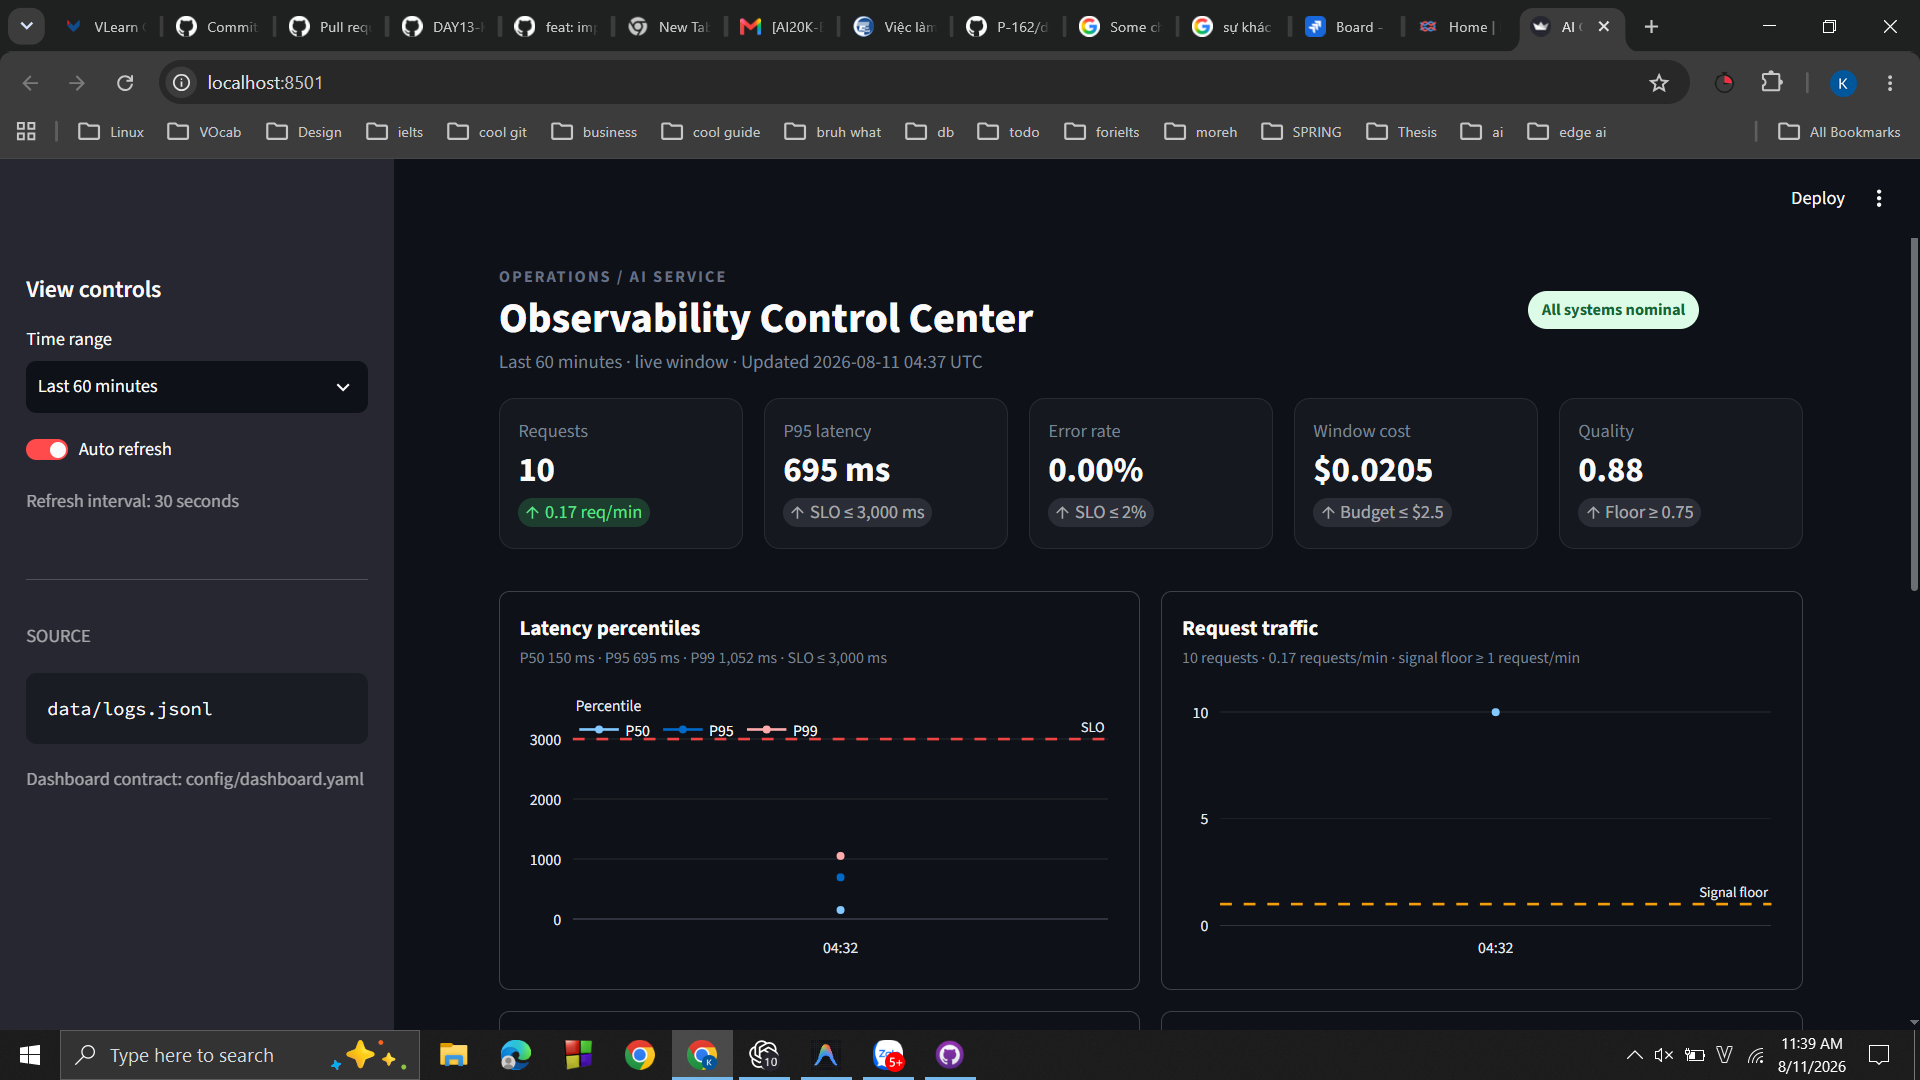
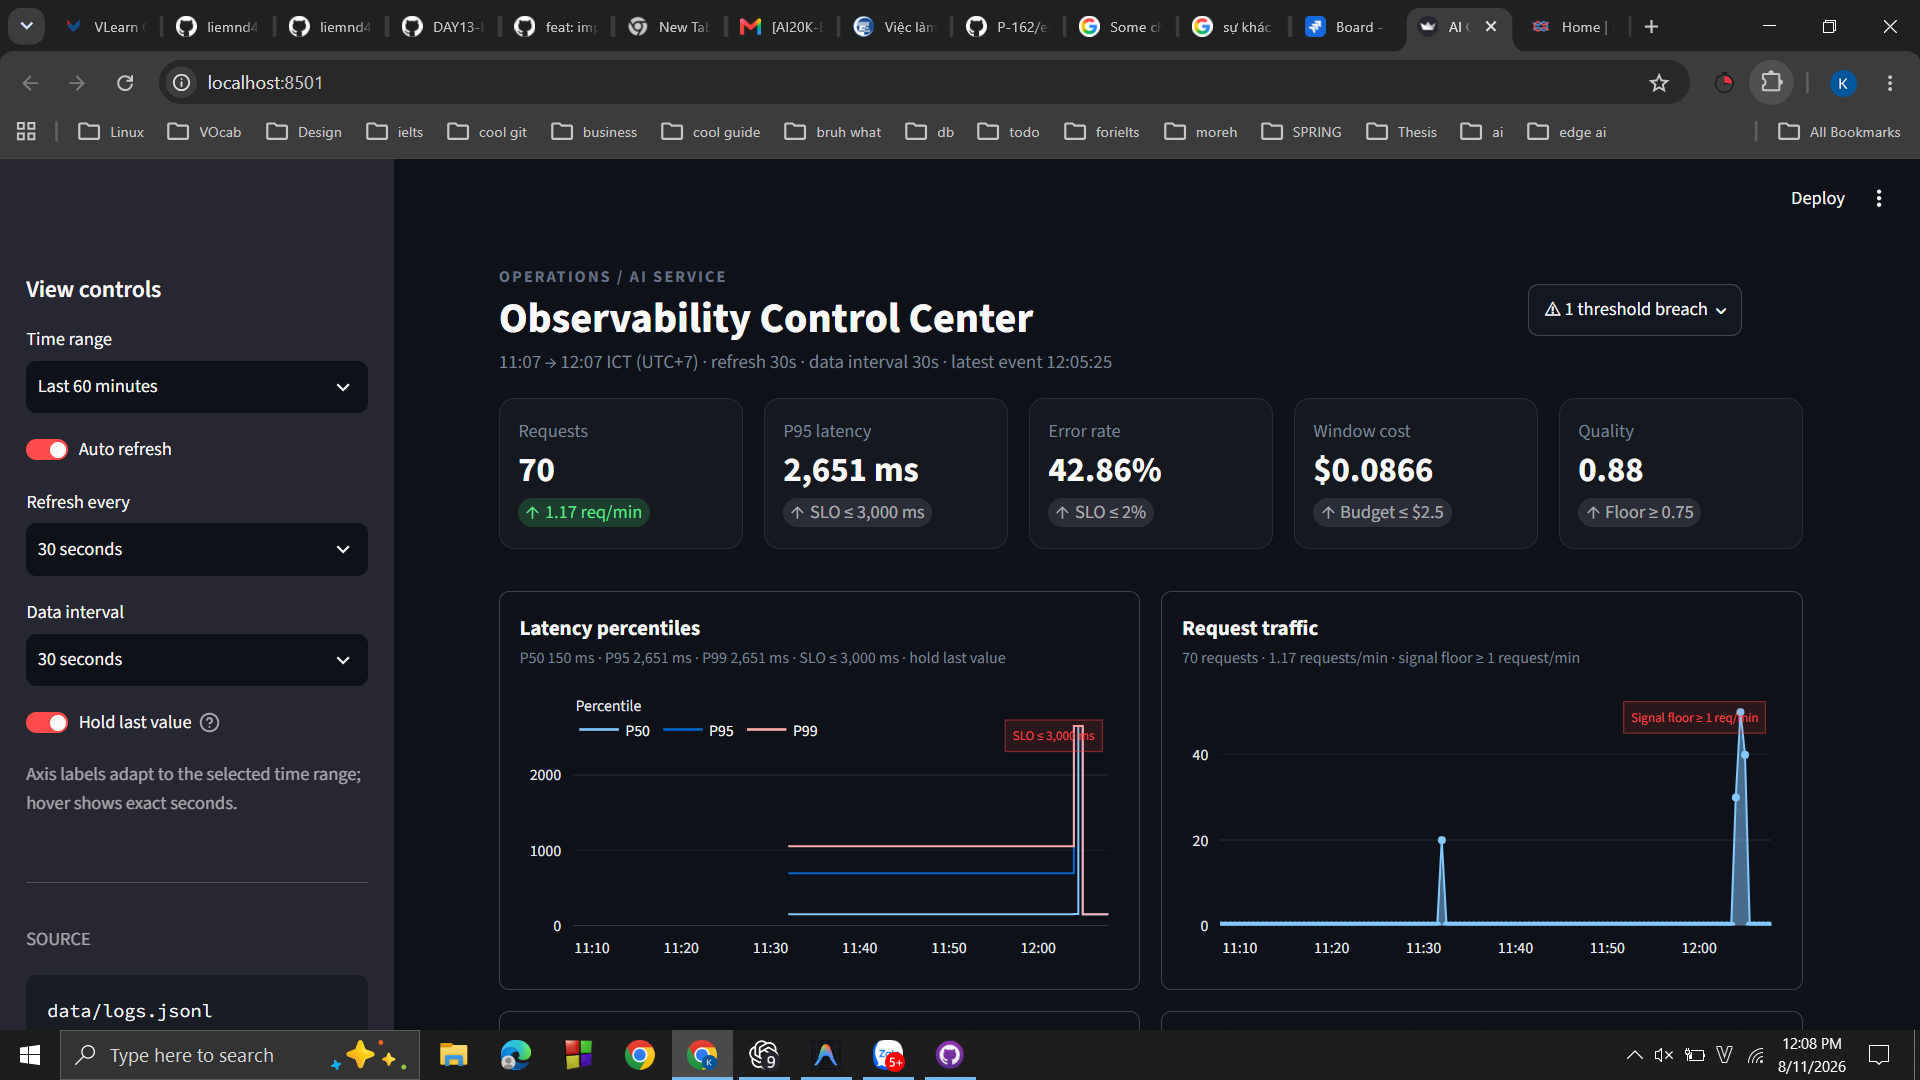
update dashboard

diff --git a/scripts/dashboard.py b/scripts/dashboard.py
@@ -5,6 +5,7 @@ from pathlib import Path
 
 import pandas as pd
 import plotly.express as px
+import plotly.graph_objects as go
 import streamlit as st
 from streamlit_autorefresh import st_autorefresh
 import yaml
@@ -13,6 +14,7 @@ import yaml
 ROOT = Path(__file__).resolve().parents[1]
 LOG_PATH = ROOT / "data" / "logs.jsonl"
 CONFIG_PATH = ROOT / "config" / "dashboard.yaml"
+DISPLAY_TIMEZONE = "Asia/Ho_Chi_Minh"
 
 st.set_page_config(
     page_title="AI Observability Control Center",
@@ -87,31 +89,50 @@ def compact_chart(fig, *, percent: bool = False) -> None:
         gridcolor="rgba(128,128,128,.12)",
         tickformat="%H:%M",
         hoverformat="%Y-%m-%d %H:%M:%S",
-        nticks=6,
+        range=[window_start, now],
+        tick0=window_start.ceil(f"{axis_tick_seconds}s"),
+        dtick=axis_tick_seconds * 1000,
     )
-
-    # Plotly zooms into microseconds when a time series contains one bucket.
-    # Give that point a readable one-minute range and render a single HH:MM tick.
-    x_values = [
-        value
-        for trace in fig.data
-        for value in (list(trace.x) if getattr(trace, "x", None) is not None else [])
-    ]
-    timestamps = pd.to_datetime(x_values, utc=True, errors="coerce")
-    timestamps = timestamps[~pd.isna(timestamps)]
-    unique_timestamps = timestamps.unique()
-    if len(unique_timestamps) == 1:
-        point = pd.Timestamp(unique_timestamps[0])
-        fig.update_xaxes(
-            range=[point - pd.Timedelta(seconds=30), point + pd.Timedelta(seconds=30)],
-            tickmode="array",
-            tickvals=[point],
-            ticktext=[point.strftime("%H:%M")],
-        )
-    fig.update_yaxes(title=None, gridcolor="rgba(128,128,128,.12)")
+    fig.update_yaxes(
+        title=None,
+        gridcolor="rgba(128,128,128,.12)",
+        rangemode="tozero",
+    )
     if percent:
         fig.update_yaxes(ticksuffix="%")
     st.plotly_chart(fig, use_container_width=True, config={"displayModeBar": False})
+
+
+def add_threshold_badge(fig, text: str) -> None:
+    """Show a threshold without letting it expand the numeric Y-axis range."""
+    fig.add_annotation(
+        text=text,
+        xref="paper",
+        yref="paper",
+        x=.99,
+        y=.98,
+        xanchor="right",
+        yanchor="top",
+        showarrow=False,
+        bgcolor="rgba(239,68,68,.12)",
+        bordercolor="rgba(239,68,68,.45)",
+        borderpad=5,
+        font=dict(color="#ef4444", size=10),
+    )
+
+
+def empty_time_chart(message: str, *, percent: bool = False) -> None:
+    fig = go.Figure()
+    fig.add_annotation(
+        text=message,
+        xref="paper",
+        yref="paper",
+        x=.5,
+        y=.5,
+        showarrow=False,
+        font=dict(color="#7b8495", size=13),
+    )
+    compact_chart(fig, percent=percent)
 
 
 def heading(title: str, subtitle: str) -> None:
@@ -135,7 +156,27 @@ with st.sidebar:
         format_func=lambda value: f"Last {value} minutes",
     )
     auto_refresh = st.toggle("Auto refresh", value=True)
-    st.caption(f"Refresh interval: {config['refresh_seconds']} seconds")
+    refresh_options = [15, 30, 60]
+    refresh_seconds = st.selectbox(
+        "Refresh every",
+        refresh_options,
+        index=refresh_options.index(config["refresh_seconds"]),
+        format_func=lambda value: f"{value} seconds",
+        disabled=not auto_refresh,
+    )
+    bucket_options = [30, 60, 300]
+    bucket_seconds = st.selectbox(
+        "Data interval",
+        bucket_options,
+        index=0,
+        format_func=lambda value: f"{value} seconds" if value < 60 else f"{value // 60} minute(s)",
+    )
+    hold_last_value = st.toggle(
+        "Hold last value",
+        value=True,
+        help="Grafana-style last-not-null: extend the latest observation until a new value arrives.",
+    )
+    st.caption("Axis labels adapt to the selected time range; hover shows exact seconds.")
     st.divider()
     st.caption("SOURCE")
     st.code("data/logs.jsonl", language=None)
@@ -143,22 +184,28 @@ with st.sidebar:
 
 if auto_refresh:
     st_autorefresh(
-        interval=config["refresh_seconds"] * 1000,
+        interval=refresh_seconds * 1000,
         limit=None,
         key="dashboard-data-refresh",
     )
 
-now = pd.Timestamp.now(tz="UTC")
-cutoff = now - pd.Timedelta(minutes=window_minutes)
-window_df = df[df["ts"] >= cutoff].copy() if not df.empty and "ts" in df else pd.DataFrame()
+if not df.empty and "ts" in df:
+    df["ts"] = df["ts"].dt.tz_convert(DISPLAY_TIMEZONE)
 
-if window_df.empty and not df.empty:
-    latest = df["ts"].max()
-    cutoff = latest - pd.Timedelta(minutes=window_minutes)
-    window_df = df[df["ts"] >= cutoff].copy()
-    data_mode = "latest available data"
-else:
-    data_mode = "live window"
+now = pd.Timestamp.now(tz=DISPLAY_TIMEZONE)
+window_start = now - pd.Timedelta(minutes=window_minutes)
+window_df = df[df["ts"].between(window_start, now)].copy() if not df.empty and "ts" in df else pd.DataFrame()
+bucket_frequency = f"{bucket_seconds}s"
+timeline = pd.date_range(
+    start=window_start.floor(bucket_frequency),
+    end=now.ceil(bucket_frequency),
+    freq=bucket_frequency,
+)
+desired_tick_seconds = max(bucket_seconds, window_minutes * 60 / 6)
+axis_tick_seconds = next(
+    step for step in [30, 60, 120, 300, 600, 900, 1800, 3600]
+    if step >= desired_tick_seconds
+)
 
 responses = window_df[window_df.get("event", pd.Series(dtype=str)) == "response_sent"].copy()
 requests = window_df[window_df.get("event", pd.Series(dtype=str)) == "request_received"].copy()
@@ -166,7 +213,7 @@ failures = window_df[window_df.get("event", pd.Series(dtype=str)) == "request_fa
 
 for frame in (responses, requests, failures):
     if not frame.empty:
-        frame["minute"] = frame["ts"].dt.floor("min")
+        frame["bucket"] = frame["ts"].dt.floor(bucket_frequency)
 
 latency_cfg = panel_config(config, "latency")
 traffic_cfg = panel_config(config, "traffic")
@@ -190,32 +237,65 @@ quality = float(responses.get("quality_score", pd.Series(dtype=float)).mean()) i
 
 breaches = {
     "Latency": bool(request_count and p95 > latency_cfg["threshold"]["value"]),
+    "Traffic": request_rate < traffic_cfg["threshold"]["value"],
     "Errors": bool(request_count and error_rate > errors_cfg["threshold"]["value"]),
     "Cost": total_cost > cost_cfg["threshold"]["value"],
     "Tokens": max(tokens_in, tokens_out) > tokens_cfg["threshold"]["value"],
     "Quality": bool(request_count and quality < quality_cfg["threshold"]["value"]),
 }
 active_breaches = [name for name, breached in breaches.items() if breached]
+breach_details = []
+if breaches["Latency"]:
+    breach_details.append(("Latency", "HighLatencyP95", f"P95 {p95:,.0f} ms > {latency_cfg['threshold']['value']:,} ms"))
+if breaches["Traffic"]:
+    breach_details.append(("Traffic", "TrafficSignalLow", f"{request_rate:.2f} req/min < {traffic_cfg['threshold']['value']} req/min"))
+if breaches["Errors"]:
+    breach_details.append(("Errors", "HighErrorRate", f"{error_rate:.2f}% > {errors_cfg['threshold']['value']}%"))
+if breaches["Cost"]:
+    breach_details.append(("Cost", "CostGuardrail", f"${total_cost:.4f} > ${cost_cfg['threshold']['value']}"))
+if breaches["Tokens"]:
+    breach_details.append(("Tokens", "TokenGuardrail", f"{max(tokens_in, tokens_out):,} > {tokens_cfg['threshold']['value']:,} tokens"))
+if breaches["Quality"]:
+    breach_details.append(("Quality", "LowQualityScore", f"{quality:.2f} < {quality_cfg['threshold']['value']}"))
 status_class = "status-bad" if active_breaches else "status-ok"
-status_text = f"{len(active_breaches)} threshold breach" if active_breaches else "All systems nominal"
-last_event = window_df["ts"].max().strftime("%Y-%m-%d %H:%M UTC") if not window_df.empty else "No data"
+status_text = (
+    f"{len(active_breaches)} threshold breach{'es' if len(active_breaches) != 1 else ''}"
+    if active_breaches
+    else "All systems nominal"
+)
+last_event = df["ts"].max().strftime("%H:%M:%S") if not df.empty and "ts" in df else "No data"
 
 header_left, header_right = st.columns([5, 1.4], vertical_alignment="center")
 with header_left:
     st.markdown('<div class="dashboard-kicker">Operations / AI service</div>', unsafe_allow_html=True)
     st.markdown('<div class="dashboard-title">Observability Control Center</div>', unsafe_allow_html=True)
     st.markdown(
-        f'<div class="dashboard-meta">Last {window_minutes} minutes · {data_mode} · Updated {last_event}</div>',
+        f'<div class="dashboard-meta">{window_start:%H:%M} → {now:%H:%M} ICT (UTC+7) · refresh {refresh_seconds}s · data interval {bucket_seconds}s · latest event {last_event}</div>',
         unsafe_allow_html=True,
     )
 with header_right:
-    st.markdown(f'<span class="{status_class}">{status_text}</span>', unsafe_allow_html=True)
+    status_icon = "⚠" if active_breaches else "✓"
+    st.markdown(f'<span class="{status_class}">{status_icon} {status_text}</span>', unsafe_allow_html=True)
+
+with st.expander(f"{status_icon} {status_text} — click to inspect", expanded=False):
+    if breach_details:
+        st.markdown("#### Active threshold breaches")
+        detail_columns = st.columns(min(len(breach_details), 3))
+        for index, (metric, alert_name, condition) in enumerate(breach_details):
+            with detail_columns[index % len(detail_columns)]:
+                st.markdown(f"**{metric}**")
+                st.code(alert_name, language=None)
+                st.caption(condition)
+        st.divider()
+        st.caption("Runbook: docs/alerts.md · Threshold source: config/dashboard.yaml")
+    else:
+        st.success("All six panel thresholds are within their configured limits.")
+        st.caption("Threshold source: config/dashboard.yaml")
 
 if rejected_lines:
     st.warning(f"Skipped {rejected_lines} malformed log line(s).", icon="⚠")
 if window_df.empty:
-    st.warning("No events are available for the selected time range. Run the load test and refresh.")
-    st.stop()
+    st.warning("No events in the live time window. The panels will keep moving and populate when new requests arrive.")
 
 st.write("")
 k1, k2, k3, k4, k5 = st.columns(5)
@@ -229,81 +309,96 @@ st.write("")
 row1_left, row1_right = st.columns(2)
 with row1_left:
     with st.container(border=True):
-        heading("Latency percentiles", f"P50 {p50:,.0f} ms · P95 {p95:,.0f} ms · P99 {p99:,.0f} ms · SLO ≤ 3,000 ms")
+        heading("Latency percentiles", f"P50 {p50:,.0f} ms · P95 {p95:,.0f} ms · P99 {p99:,.0f} ms · SLO ≤ 3,000 ms · {'hold last value' if hold_last_value else 'show gaps'}")
         if not responses.empty and "latency_ms" in responses:
-            latency = responses.groupby("minute")["latency_ms"].quantile([.5, .95, .99]).unstack().reset_index()
-            latency.columns = ["minute", "P50", "P95", "P99"]
-            latency = latency.melt("minute", var_name="Percentile", value_name="Latency (ms)")
-            fig = px.line(latency, x="minute", y="Latency (ms)", color="Percentile", markers=True)
-            fig.add_hline(y=latency_cfg["threshold"]["value"], line_dash="dash", line_color="#ef4444", annotation_text="SLO")
+            latency = responses.groupby("bucket")["latency_ms"].quantile([.5, .95, .99]).unstack()
+            latency.columns = ["P50", "P95", "P99"]
+            latency = latency.reindex(timeline)
+            if hold_last_value:
+                latency = latency.ffill()
+            latency = latency.rename_axis("bucket").reset_index()
+            latency = latency.melt("bucket", var_name="Percentile", value_name="Latency (ms)")
+            fig = px.line(latency, x="bucket", y="Latency (ms)", color="Percentile", line_shape="hv")
+            add_threshold_badge(fig, f"SLO ≤ {latency_cfg['threshold']['value']:,} ms")
             compact_chart(fig)
         else:
-            st.info("No response latency data")
+            empty_time_chart("No response latency data in this window")
 
 with row1_right:
     with st.container(border=True):
         heading("Request traffic", f"{request_count} requests · {request_rate:.2f} requests/min · signal floor ≥ 1 request/min")
-        traffic = requests.groupby("minute").size().reset_index(name="Requests") if not requests.empty else pd.DataFrame()
+        traffic = requests.groupby("bucket").size().reindex(timeline, fill_value=0).rename_axis("bucket").reset_index(name="Requests/min") if not requests.empty else pd.DataFrame()
         if not traffic.empty:
-            fig = px.area(traffic, x="minute", y="Requests", markers=True)
-            fig.add_hline(y=traffic_cfg["threshold"]["value"], line_dash="dash", line_color="#f59e0b", annotation_text="Signal floor")
+            traffic["Requests/min"] = traffic["Requests/min"] * 60 / bucket_seconds
+            fig = px.area(traffic, x="bucket", y="Requests/min", markers=True)
+            add_threshold_badge(fig, f"Signal floor ≥ {traffic_cfg['threshold']['value']} req/min")
             compact_chart(fig)
         else:
-            st.info("No request data")
+            empty_time_chart("No request data in this window")
 
 row2_left, row2_right = st.columns(2)
 with row2_left:
     with st.container(border=True):
-        heading("Errors", f"{error_rate:.2f}% error rate · {error_count} failures · SLO ≤ 2%")
+        heading("Errors", f"{error_rate:.2f}% error rate · {error_count} failures · SLO ≤ 2% · {'hold last value' if hold_last_value else 'show gaps'}")
         if not requests.empty:
-            req_by_minute = requests.groupby("minute").size().rename("requests")
-            errors = req_by_minute.to_frame()
+            req_by_bucket = requests.groupby("bucket").size().reindex(timeline, fill_value=0).rename("requests")
+            errors = req_by_bucket.to_frame()
             if failures.empty:
                 errors["errors"] = 0
             else:
                 errors["errors"] = (
-                    failures.groupby("minute")
+                    failures.groupby("bucket")
                     .size()
                     .reindex(errors.index, fill_value=0)
                 )
-            errors["Error rate (%)"] = errors["errors"] / errors["requests"] * 100
-            errors = errors.reset_index()
-            fig = px.line(errors, x="minute", y="Error rate (%)", markers=True)
-            fig.add_hline(y=errors_cfg["threshold"]["value"], line_dash="dash", line_color="#ef4444", annotation_text="SLO")
+            errors["Error rate (%)"] = (errors["errors"] / errors["requests"] * 100).where(errors["requests"] > 0)
+            if hold_last_value:
+                errors["Error rate (%)"] = errors["Error rate (%)"].ffill()
+            errors = errors.rename_axis("bucket").reset_index()
+            fig = px.line(errors, x="bucket", y="Error rate (%)", line_shape="hv")
+            fig.update_traces(line_width=3)
+            add_threshold_badge(fig, f"SLO ≤ {errors_cfg['threshold']['value']}%")
             compact_chart(fig, percent=True)
         else:
-            st.info("No request data")
+            empty_time_chart("No request data in this window", percent=True)
 
 with row2_right:
     with st.container(border=True):
         heading("Cost", f"${total_cost:.4f} in selected window · budget ≤ ${cost_cfg['threshold']['value']}")
         if not responses.empty and "cost_usd" in responses:
-            cost = responses.groupby("minute")["cost_usd"].sum().cumsum().reset_index(name="Cumulative cost (USD)")
-            fig = px.line(cost, x="minute", y="Cumulative cost (USD)", markers=True)
-            fig.add_hline(y=cost_cfg["threshold"]["value"], line_dash="dash", line_color="#ef4444", annotation_text="Budget")
+            cost = responses.groupby("bucket")["cost_usd"].sum().reindex(timeline, fill_value=0).cumsum().rename_axis("bucket").reset_index(name="Cumulative cost (USD)")
+            fig = px.line(cost, x="bucket", y="Cumulative cost (USD)", markers=True)
+            add_threshold_badge(fig, f"Budget ≤ ${cost_cfg['threshold']['value']}")
             compact_chart(fig)
         else:
-            st.info("No cost data")
+            empty_time_chart("No cost data in this window")
 
 row3_left, row3_right = st.columns(2)
 with row3_left:
     with st.container(border=True):
         heading("Token usage", f"Input {tokens_in:,} · Output {tokens_out:,} · per-field limit ≤ {tokens_cfg['threshold']['value']:,}")
-        token_frame = pd.DataFrame({"Token type": ["Input", "Output"], "Tokens": [tokens_in, tokens_out]})
-        fig = px.bar(token_frame, x="Token type", y="Tokens", color="Token type", text_auto=",")
-        fig.add_hline(y=tokens_cfg["threshold"]["value"], line_dash="dash", line_color="#ef4444", annotation_text="Per-field limit")
-        compact_chart(fig)
+        if not responses.empty and {"tokens_in", "tokens_out"}.issubset(responses.columns):
+            token_frame = responses.groupby("bucket")[["tokens_in", "tokens_out"]].sum().reindex(timeline, fill_value=0).rename_axis("bucket").reset_index()
+            token_frame = token_frame.melt("bucket", var_name="Token type", value_name="Tokens")
+            fig = px.area(token_frame, x="bucket", y="Tokens", color="Token type")
+            add_threshold_badge(fig, f"Limit ≤ {tokens_cfg['threshold']['value']:,}")
+            compact_chart(fig)
+        else:
+            empty_time_chart("No token data in this window")
 
 with row3_right:
     with st.container(border=True):
-        heading("Quality proxy", f"Mean score {quality:.2f} · quality floor ≥ {quality_cfg['threshold']['value']}")
+        heading("Quality proxy", f"Mean score {quality:.2f} · quality floor ≥ {quality_cfg['threshold']['value']} · {'hold last value' if hold_last_value else 'show gaps'}")
         if not responses.empty and "quality_score" in responses:
-            quality_trend = responses.groupby("minute")["quality_score"].mean().reset_index(name="Quality score")
-            fig = px.line(quality_trend, x="minute", y="Quality score", markers=True)
-            fig.add_hline(y=quality_cfg["threshold"]["value"], line_dash="dash", line_color="#ef4444", annotation_text="Quality floor")
+            quality_trend = responses.groupby("bucket")["quality_score"].mean().reindex(timeline)
+            if hold_last_value:
+                quality_trend = quality_trend.ffill()
+            quality_trend = quality_trend.rename_axis("bucket").reset_index(name="Quality score")
+            fig = px.line(quality_trend, x="bucket", y="Quality score", line_shape="hv")
+            add_threshold_badge(fig, f"Quality floor ≥ {quality_cfg['threshold']['value']}")
             fig.update_yaxes(range=[0, 1])
             compact_chart(fig)
         else:
-            st.info("No quality data")
+            empty_time_chart("No quality data in this window")
 
 st.caption("Six-panel operational view · Source: data/logs.jsonl · Thresholds: config/dashboard.yaml")
